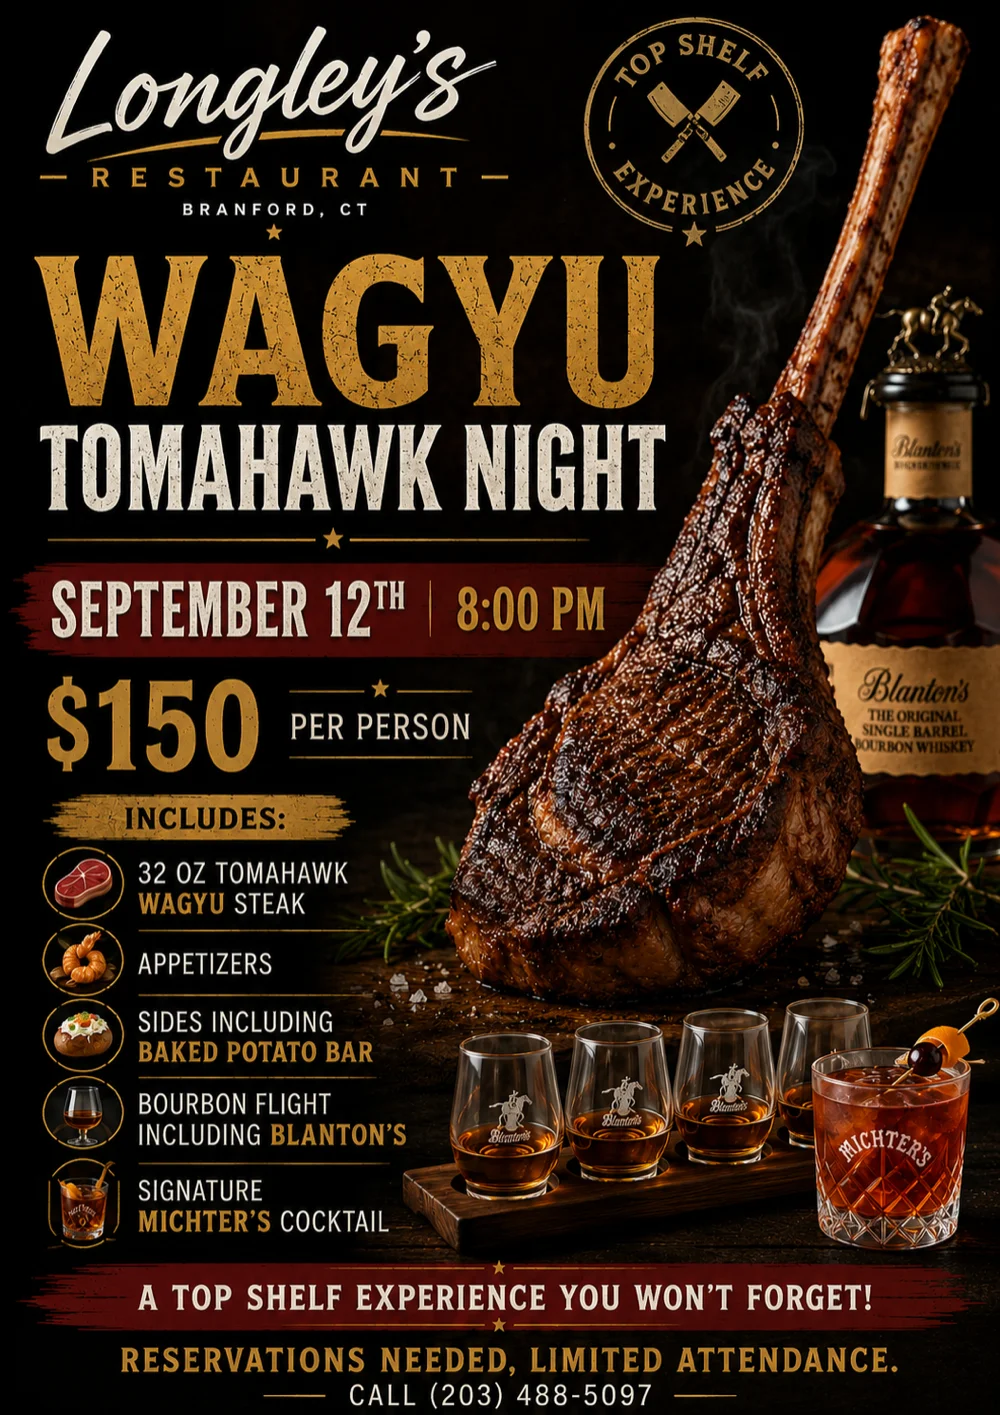
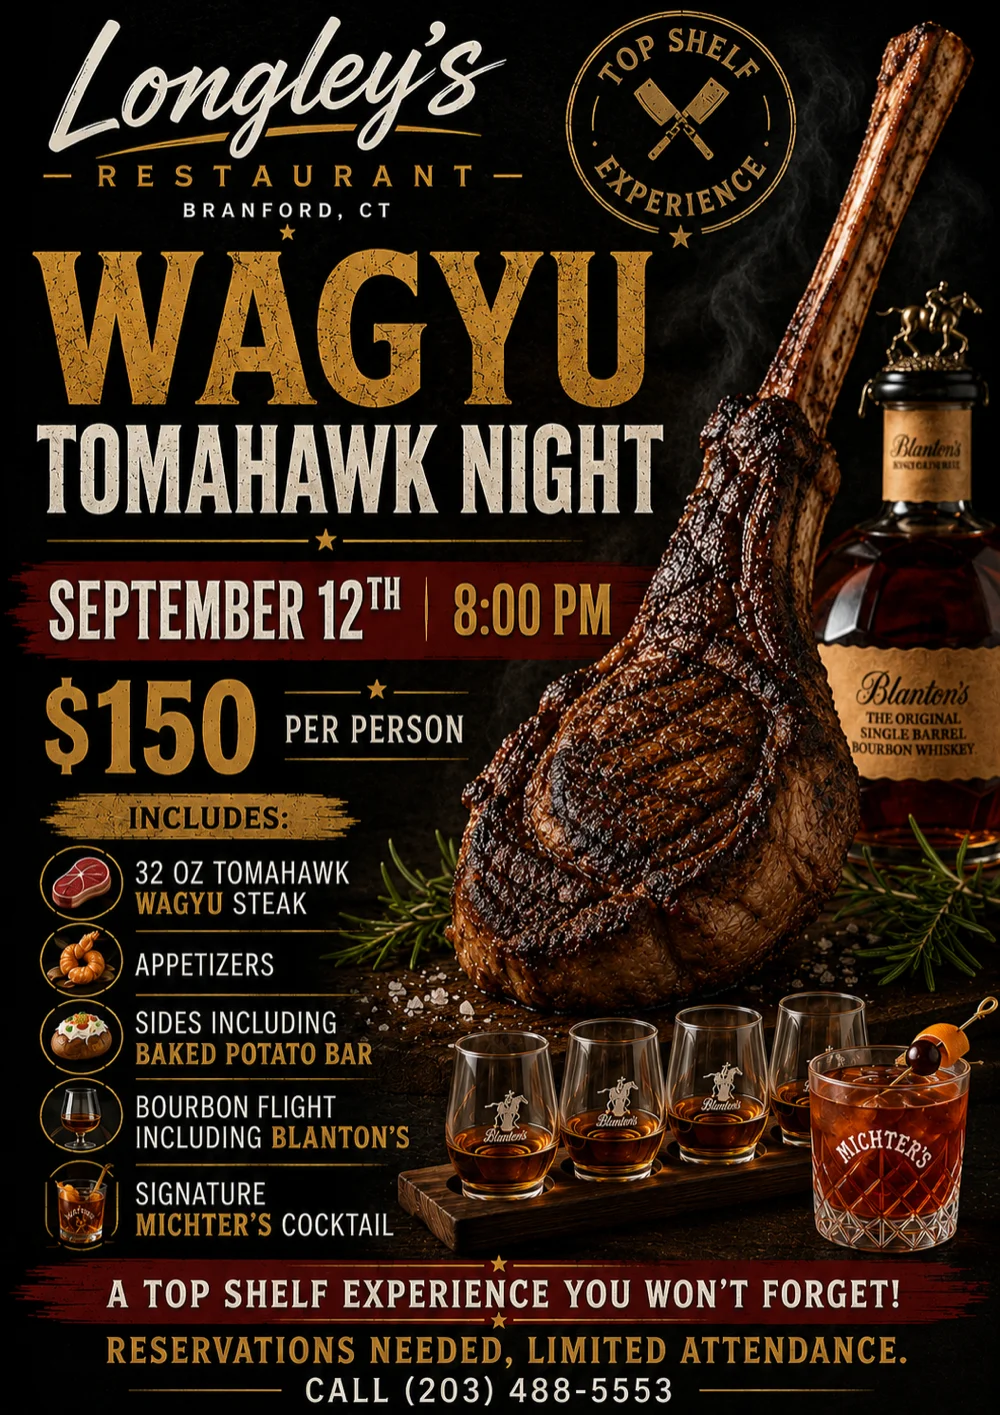
Use the corrected Wagyu flyer and the right reservation number
The first flyer printed (203) 488-5097; the client sent a corrected
version with (203) 488-5553, matching the number used everywhere else
on the site. Swaps the poster art and repoints all three Wagyu CTAs.

Claude-Session: https://claude.ai/code/session_01TtFhjtf6L7umcGRFMu4vK4

diff --git a/index.html b/index.html
@@ -175,7 +175,7 @@
           <li><strong>Signature Michter's Cocktail</strong>Poured just for the occasion</li>
         </ul>
         <p>Reservations needed - limited attendance.</p>
-        <a href="tel:2034885097" class="btn btn-primary">Call (203) 488-5097</a>
+        <a href="tel:2034885553" class="btn btn-primary">Call (203) 488-5553</a>
       </div>
     </div>
   </section>
@@ -246,7 +246,7 @@
           <div class="gig-cal"><span class="gig-mon">Sep</span><span class="gig-day">11</span></div>
           <div class="gig-info"><h3 class="gig-name">Blue Rhythm Band</h3><span class="gig-tag">Fri &middot; Live Music</span></div>
         </div>
-        <a class="gig gig-featured fade-in" data-date="2026-09-12" href="tel:2034885097">
+        <a class="gig gig-featured fade-in" data-date="2026-09-12" href="tel:2034885553">
           <div class="gig-cal"><span class="gig-mon">Sep</span><span class="gig-day">12</span></div>
           <div class="gig-info"><h3 class="gig-name">Wagyu Tomahawk Night</h3><span class="gig-tag">Sat &middot; 8 PM &middot; $150 per person &middot; Reservations required</span></div>
           <span class="gig-cta">Reserve</span>
@@ -291,11 +291,11 @@
             <a href="https://www.eventbrite.com/e/freestyle-icons-series-tickets-1991606392332" target="_blank" rel="noopener">Tickets on Eventbrite</a></figcaption>
         </figure>
         <figure class="flyer" data-expires="2026-09-12T23:59:59-04:00">
-          <a href="tel:2034885097">
+          <a href="tel:2034885553">
             <img src="images/longleys-wagyu-tomahawk-night-branford-ct.webp" width="1000" height="1415" loading="lazy" alt="Wagyu Tomahawk Night at Longley's, Saturday September 12 at 8 PM - $150 per person for a 32 oz Wagyu tomahawk steak, appetizers, sides with a baked potato bar, a Blanton's bourbon flight and a signature Michter's cocktail. Reservations needed, limited attendance.">
           </a>
           <figcaption>Sat, Sept 12 &middot; 8 PM &middot; $150 per person &middot;
-            <a href="tel:2034885097">Call (203) 488-5097</a> to reserve</figcaption>
+            <a href="tel:2034885553">Call (203) 488-5553</a> to reserve</figcaption>
         </figure>
         <figure class="flyer" data-expires="2026-09-20T23:59:59-04:00">
           <img src="images/longleys-dinner-card-magic-branford-ct.webp" width="709" height="1000" loading="lazy" alt="Dinner and Card Magic at Longley's, Sunday September 20 from 6:30 to 8:30 PM - close-up card magic and illusions performed by Dan Sandella and Joe Giaimo. Free admission.">
